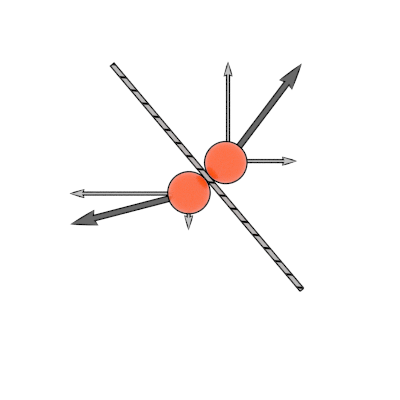
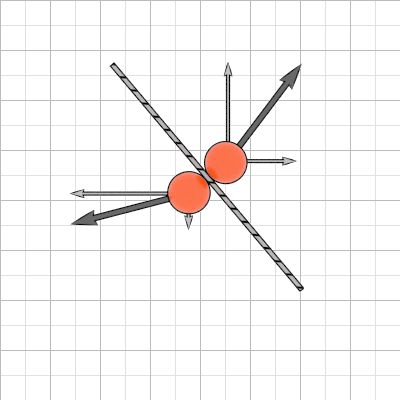
20.3.2017 big update v2 --> Changes to images (grid added), ipynb url fixed

diff --git a/html/coding.html b/html/coding.html
@@ -76,7 +76,7 @@
                     <br>
                     <br>
                     <div class="card-well">
-                        <iframe src="http://nbviewer.jupyter.org/github/itsmgo/itsmgo.github.io/tree/master/data/code/GameOfLife.ipynb" width="100%" height="600px" frameborder=0>Not supported in your browser</iframe>
+                        <iframe src="http://nbviewer.jupyter.org/github/itsmgo/itsmgo.github.io/blob/master/data/code/GameOfLife.ipynb" width="100%" height="600px" frameborder=0>Not supported in your browser</iframe>
                     </div>
                     <br>
                     And here you can download the Python app. You can pass 4 arguments to the program, X size, Y size, fife factor (between 0 and 1), and simulation velocity (miliseconds to refresh each frame).

diff --git a/html/physics.html b/html/physics.html
@@ -148,7 +148,7 @@ def colTransformation(V1, V2, angle):
                         Here you can see the code used to simulate the box with balls:
                     </p>
                     <div class="card-well">
-                        <iframe src="http://nbviewer.jupyter.org/github/itsmgo/itsmgo.github.io/tree/master/data/code/CollisionsWall.ipynb" width="100%" height="600px" frameborder=0>Not supported in your browser</iframe>
+                        <iframe src="http://nbviewer.jupyter.org/github/itsmgo/itsmgo.github.io/blob/master/data/code/CollisionsWall.ipynb" width="100%" height="600px" frameborder=0>Not supported in your browser</iframe>
                     </div>
                     
                 
